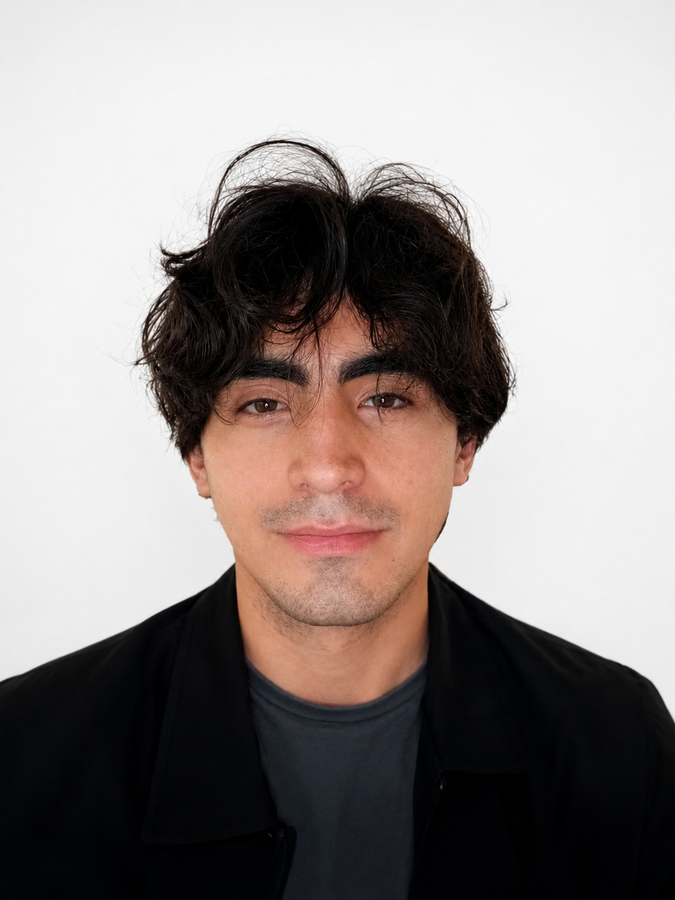
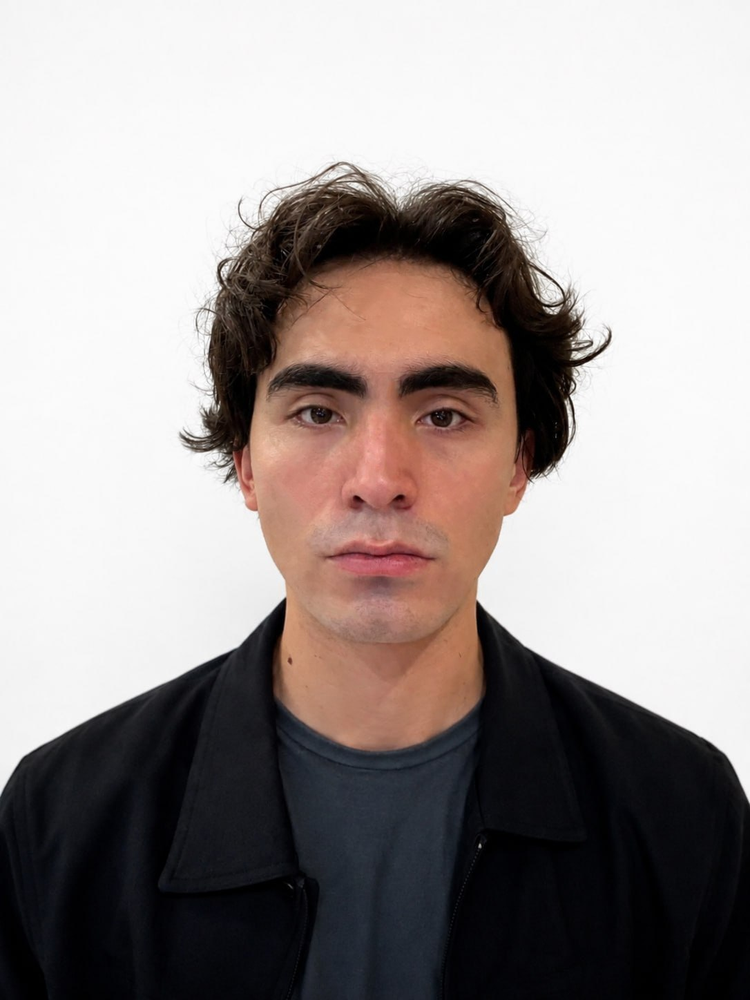
update

diff --git a/src/components/HeroSection.vue b/src/components/HeroSection.vue
@@ -144,10 +144,10 @@ onMounted(() => {
             <picture>
               <source srcset="/isa-photo.webp" type="image/webp" />
               <img
-                src="/isa-photo.png"
+                src="/isa-photo.jpg"
                 alt="Ismail Gayratov — Frontend & Full-Stack Developer"
-                width="675"
-                height="900"
+                width="750"
+                height="1000"
                 class="w-full h-full object-cover object-center group-hover:scale-105 transition-transform duration-700 ease-out"
                 loading="eager"
                 fetchpriority="high"
